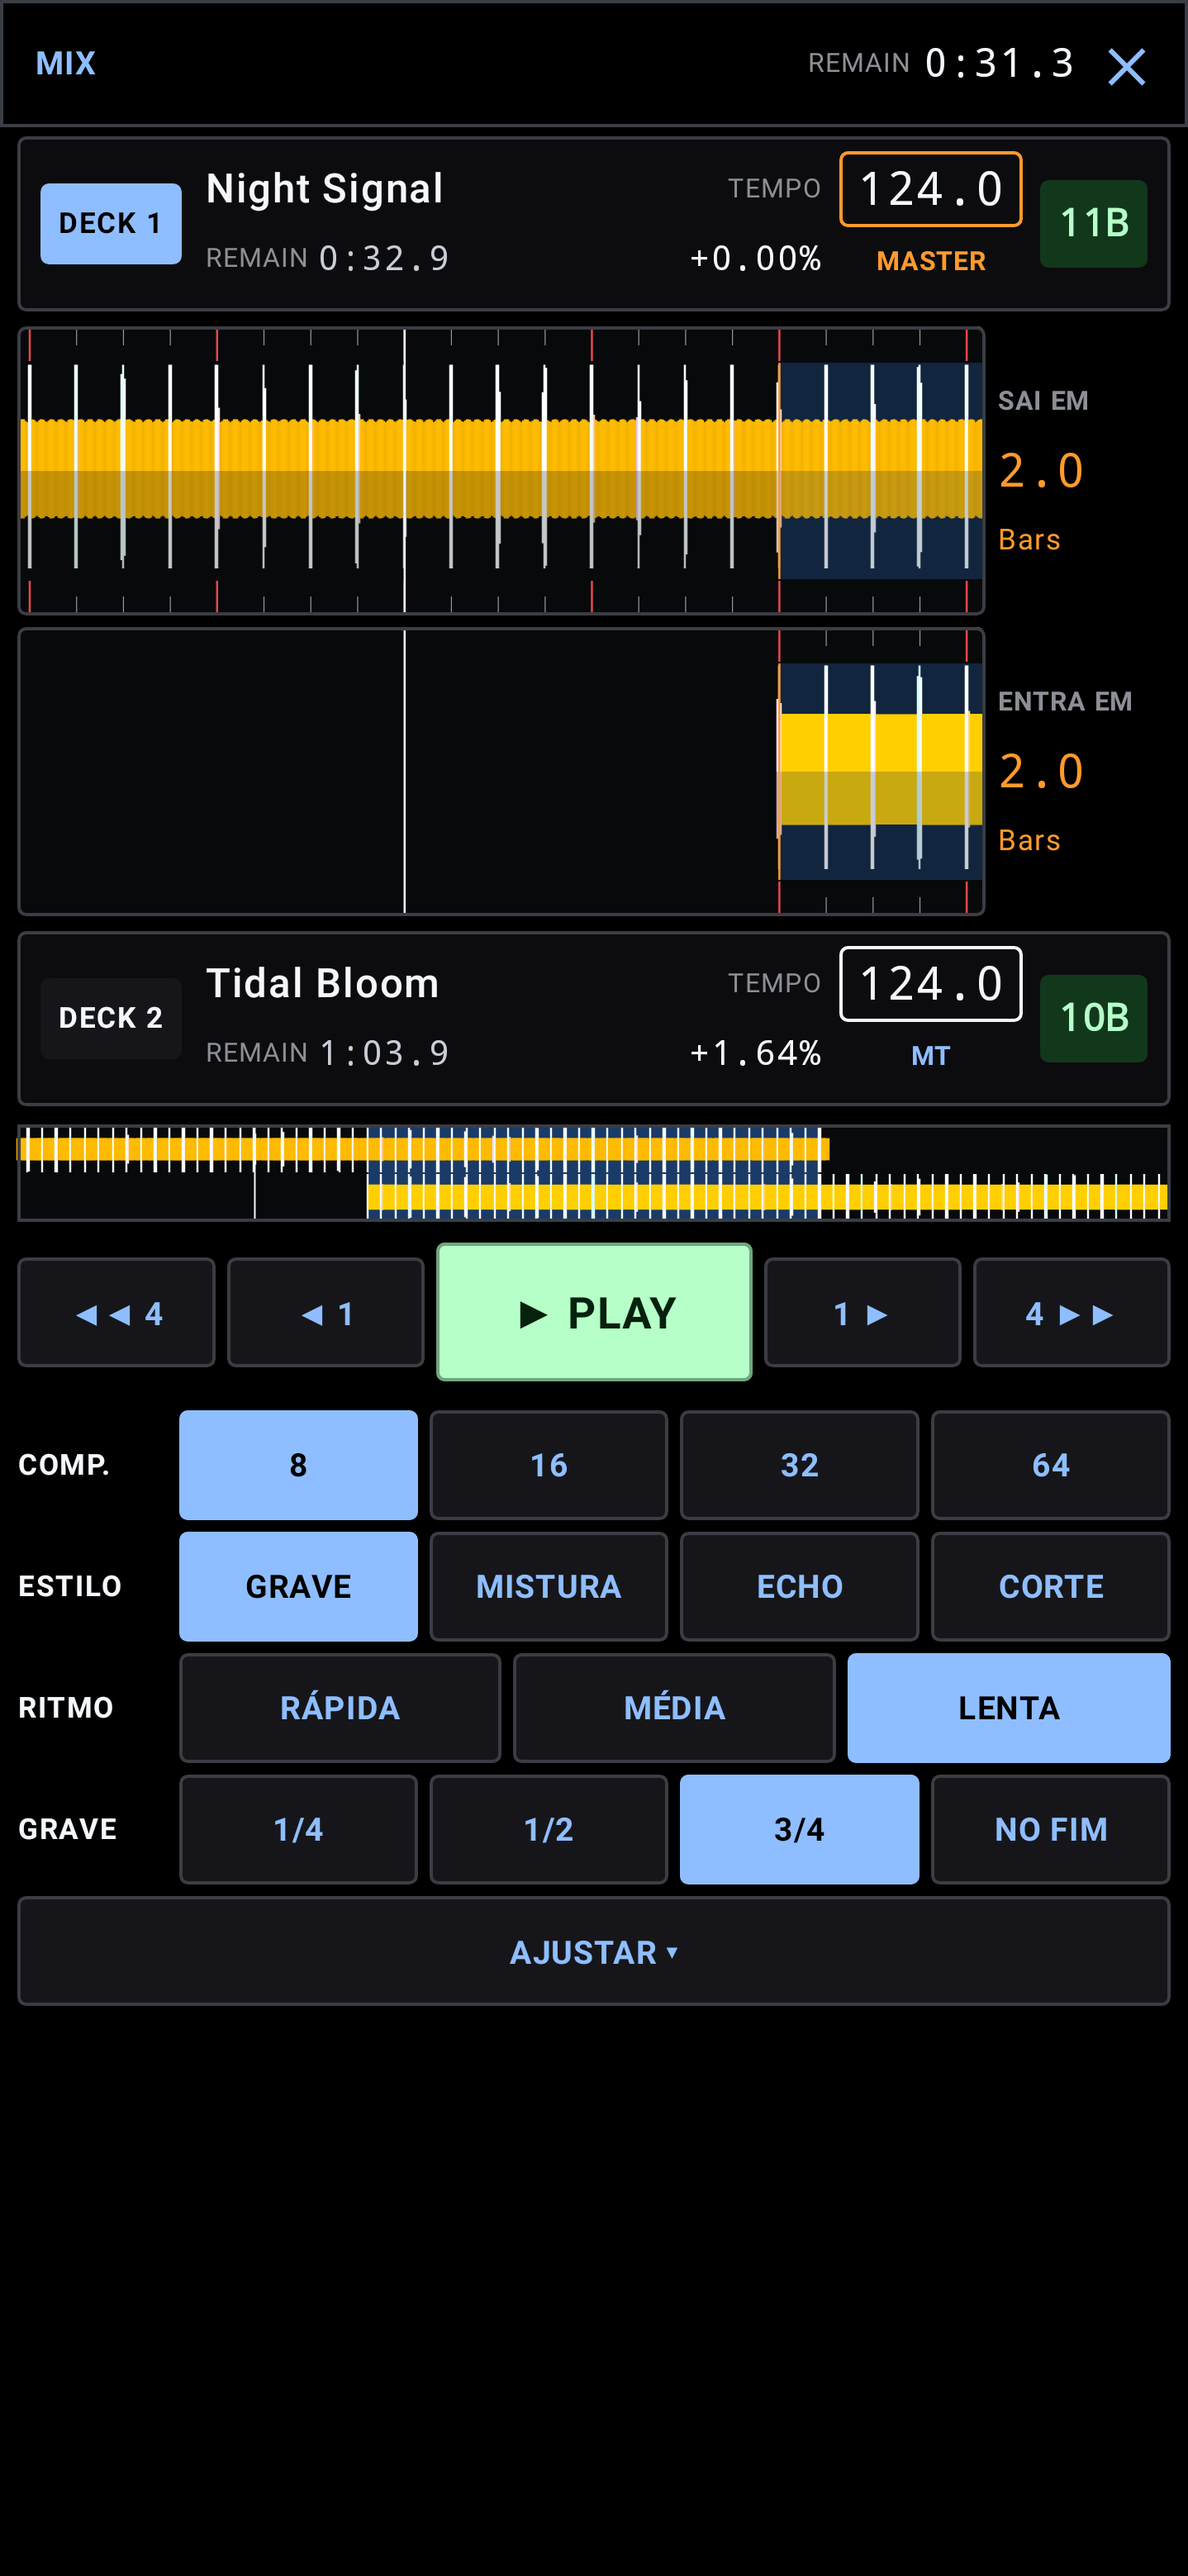
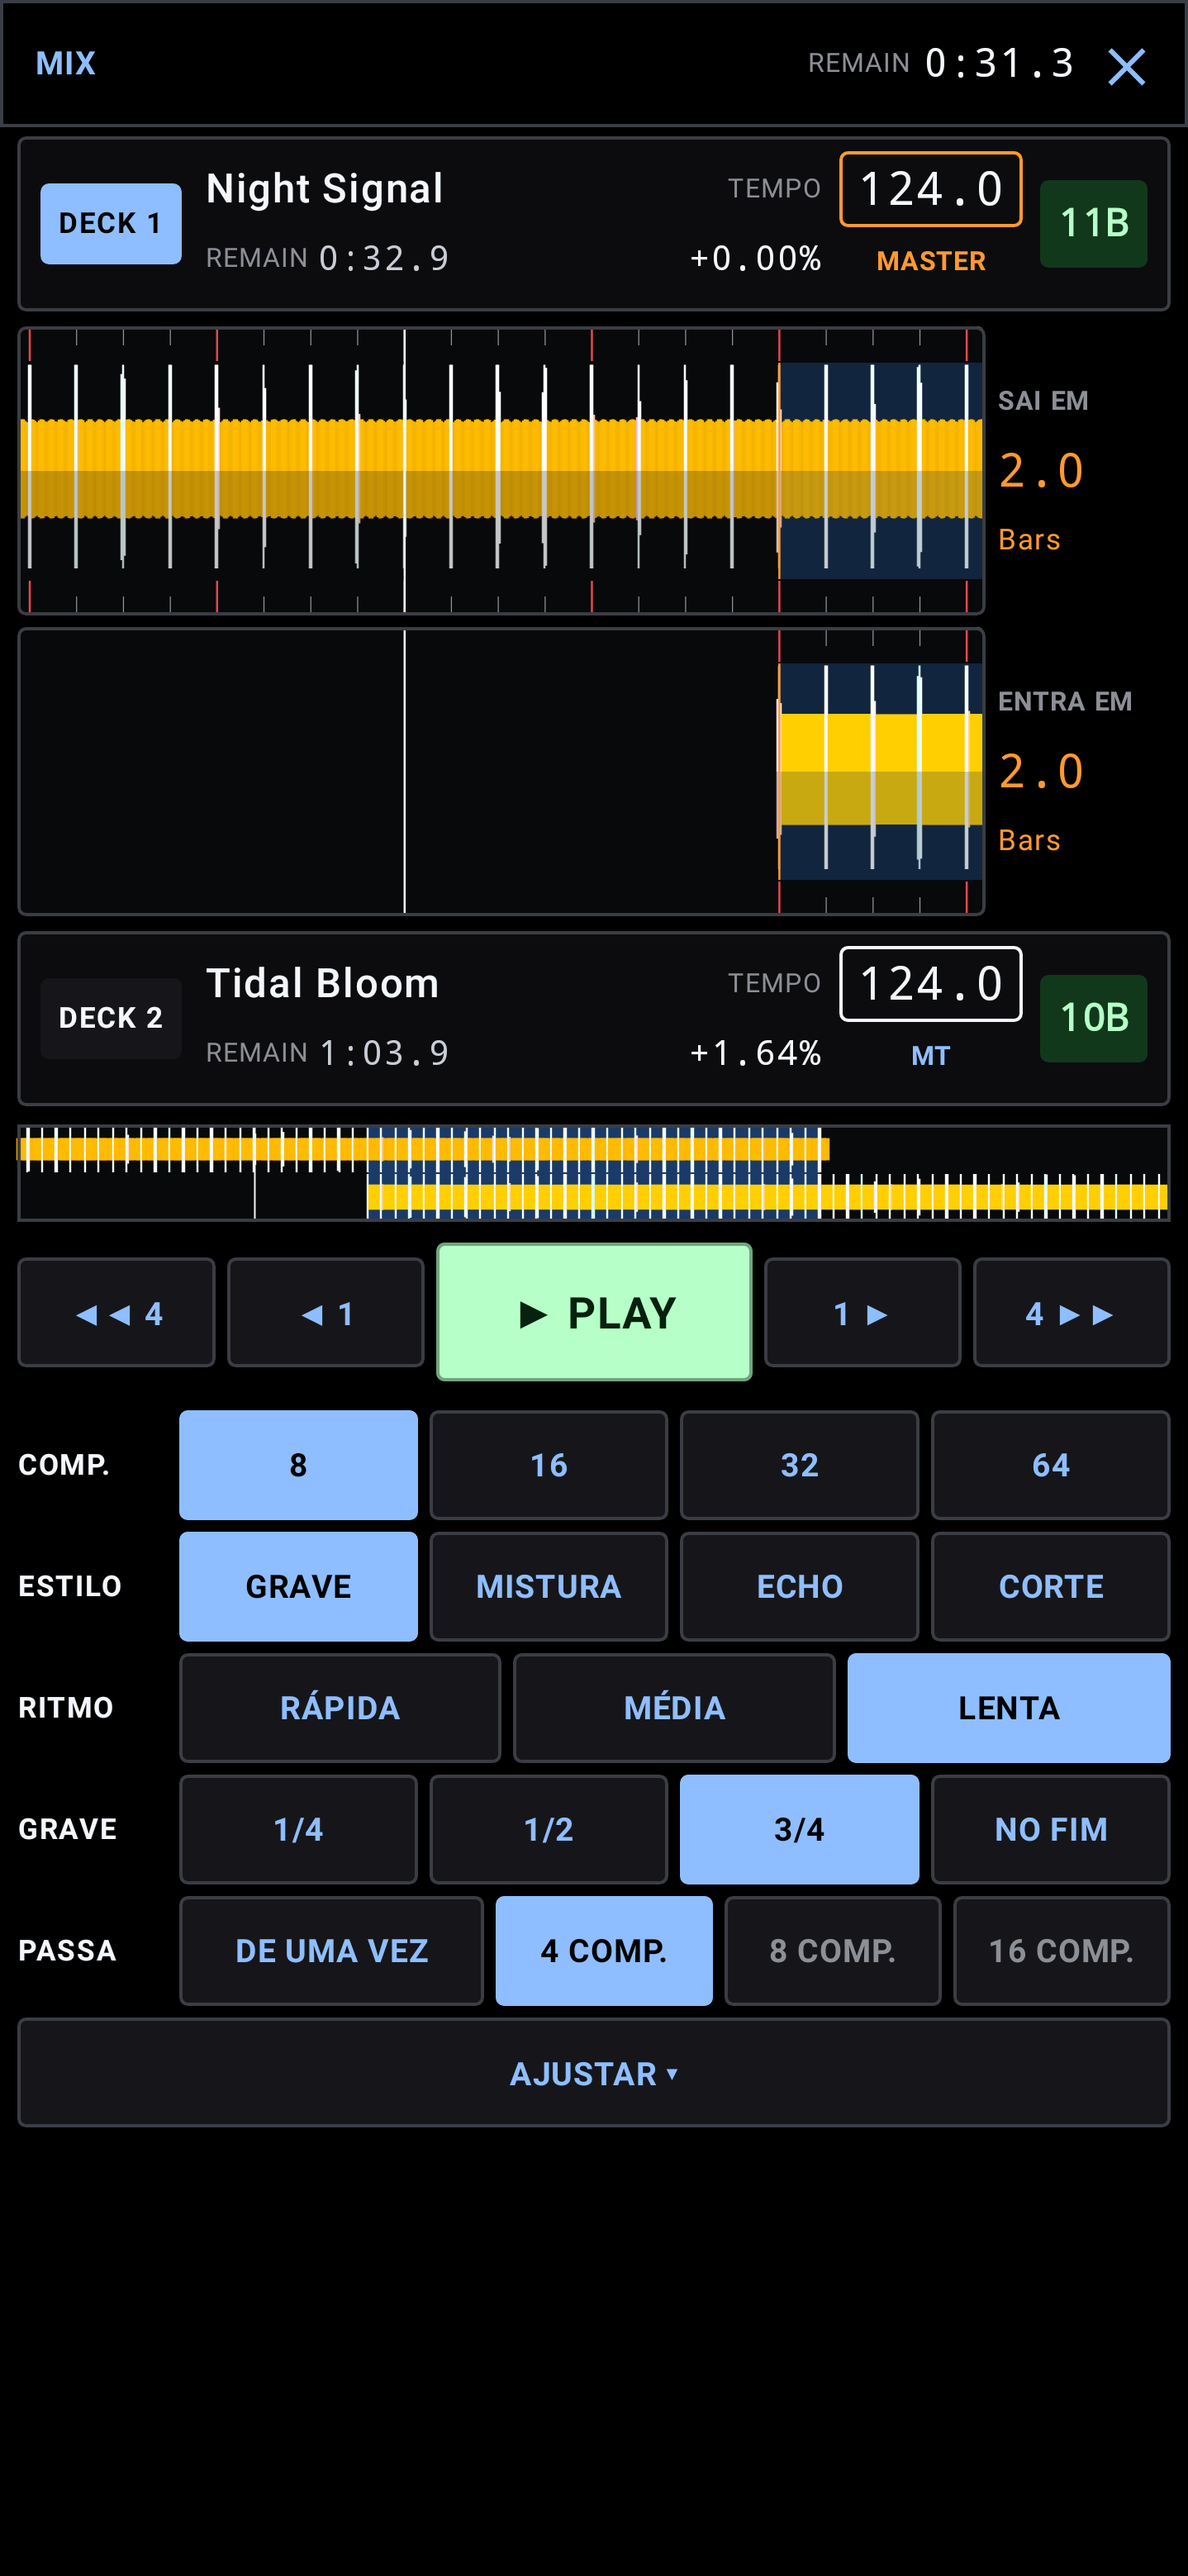
Teste do MIX com PASSA aos poucos e captura atualizada
Claude-Session: https://claude.ai/code/session_01Sb59H5wbN2UPN3Jxgrj5kb

Changed region(s): [[0.0, 0.7155, 1.0, 0.84]]

diff --git a/mobile/app/src/test/kotlin/os/deckbridge/manager/mobile/SetFlowTest.kt b/mobile/app/src/test/kotlin/os/deckbridge/manager/mobile/SetFlowTest.kt
@@ -139,7 +139,7 @@ class SetFlowTest {
         rule.waitForIdle()
         rule.onNodeWithText("CORTE").performScrollTo().performClick()
         waitMix(a)
-        rule.onNodeWithText("8 COMP.").performScrollTo().performClick()
+        rule.onNodeWithText("8").performScrollTo().performClick()
         waitMix(a)
         rule.onNodeWithText("MASTER TEMPO").performScrollTo().performClick()
         waitMix(a)
@@ -260,16 +260,16 @@ class SetFlowTest {
         waitMix(a)
         rule.onNodeWithText("3/4").performScrollTo().performClick()
         waitMix(a)
-        rule.onNodeWithText("8 COMP.").performScrollTo().performClick()
+        rule.onNodeWithText("4 COMP.").performScrollTo().performClick()
         waitMix(a)
         val tr = a.sets.mixing!!
         assertEquals(Transition.Pace.SLOW, tr.pace)
         assertEquals(0.75, tr.swapAt)
-        assertEquals(8, tr.swapBars)
+        assertEquals(4, tr.swapBars, "troca de ${tr.bars} compassos")
         rule.onRoot().captureRoboImage(File(out, "mobile-40-vertical-mix-ritmo.png").path)
         // A prévia segue a troca escolhida: perto do ponto do grave, os dois graves estão se cruzando (aos poucos).
         val p = a.sets.mixPreview!!
-        val lv = p.levelsAt(p.leadMs + (p.overlapMs * 0.75 - p.barMsA * 4).toInt())
+        val lv = p.levelsAt(p.leadMs + (p.overlapMs * 0.75 - p.barMsA * 2).toInt())
         assertTrue(lv.bLow in 0.1f..0.9f, "grave entrando aos poucos: ${lv.bLow}")
         // Guardado no plano e mostrado na linha da troca.
         assertEquals(tr, a.sets.plan().first { it.fromId == tr.fromId && it.toId == tr.toId })
